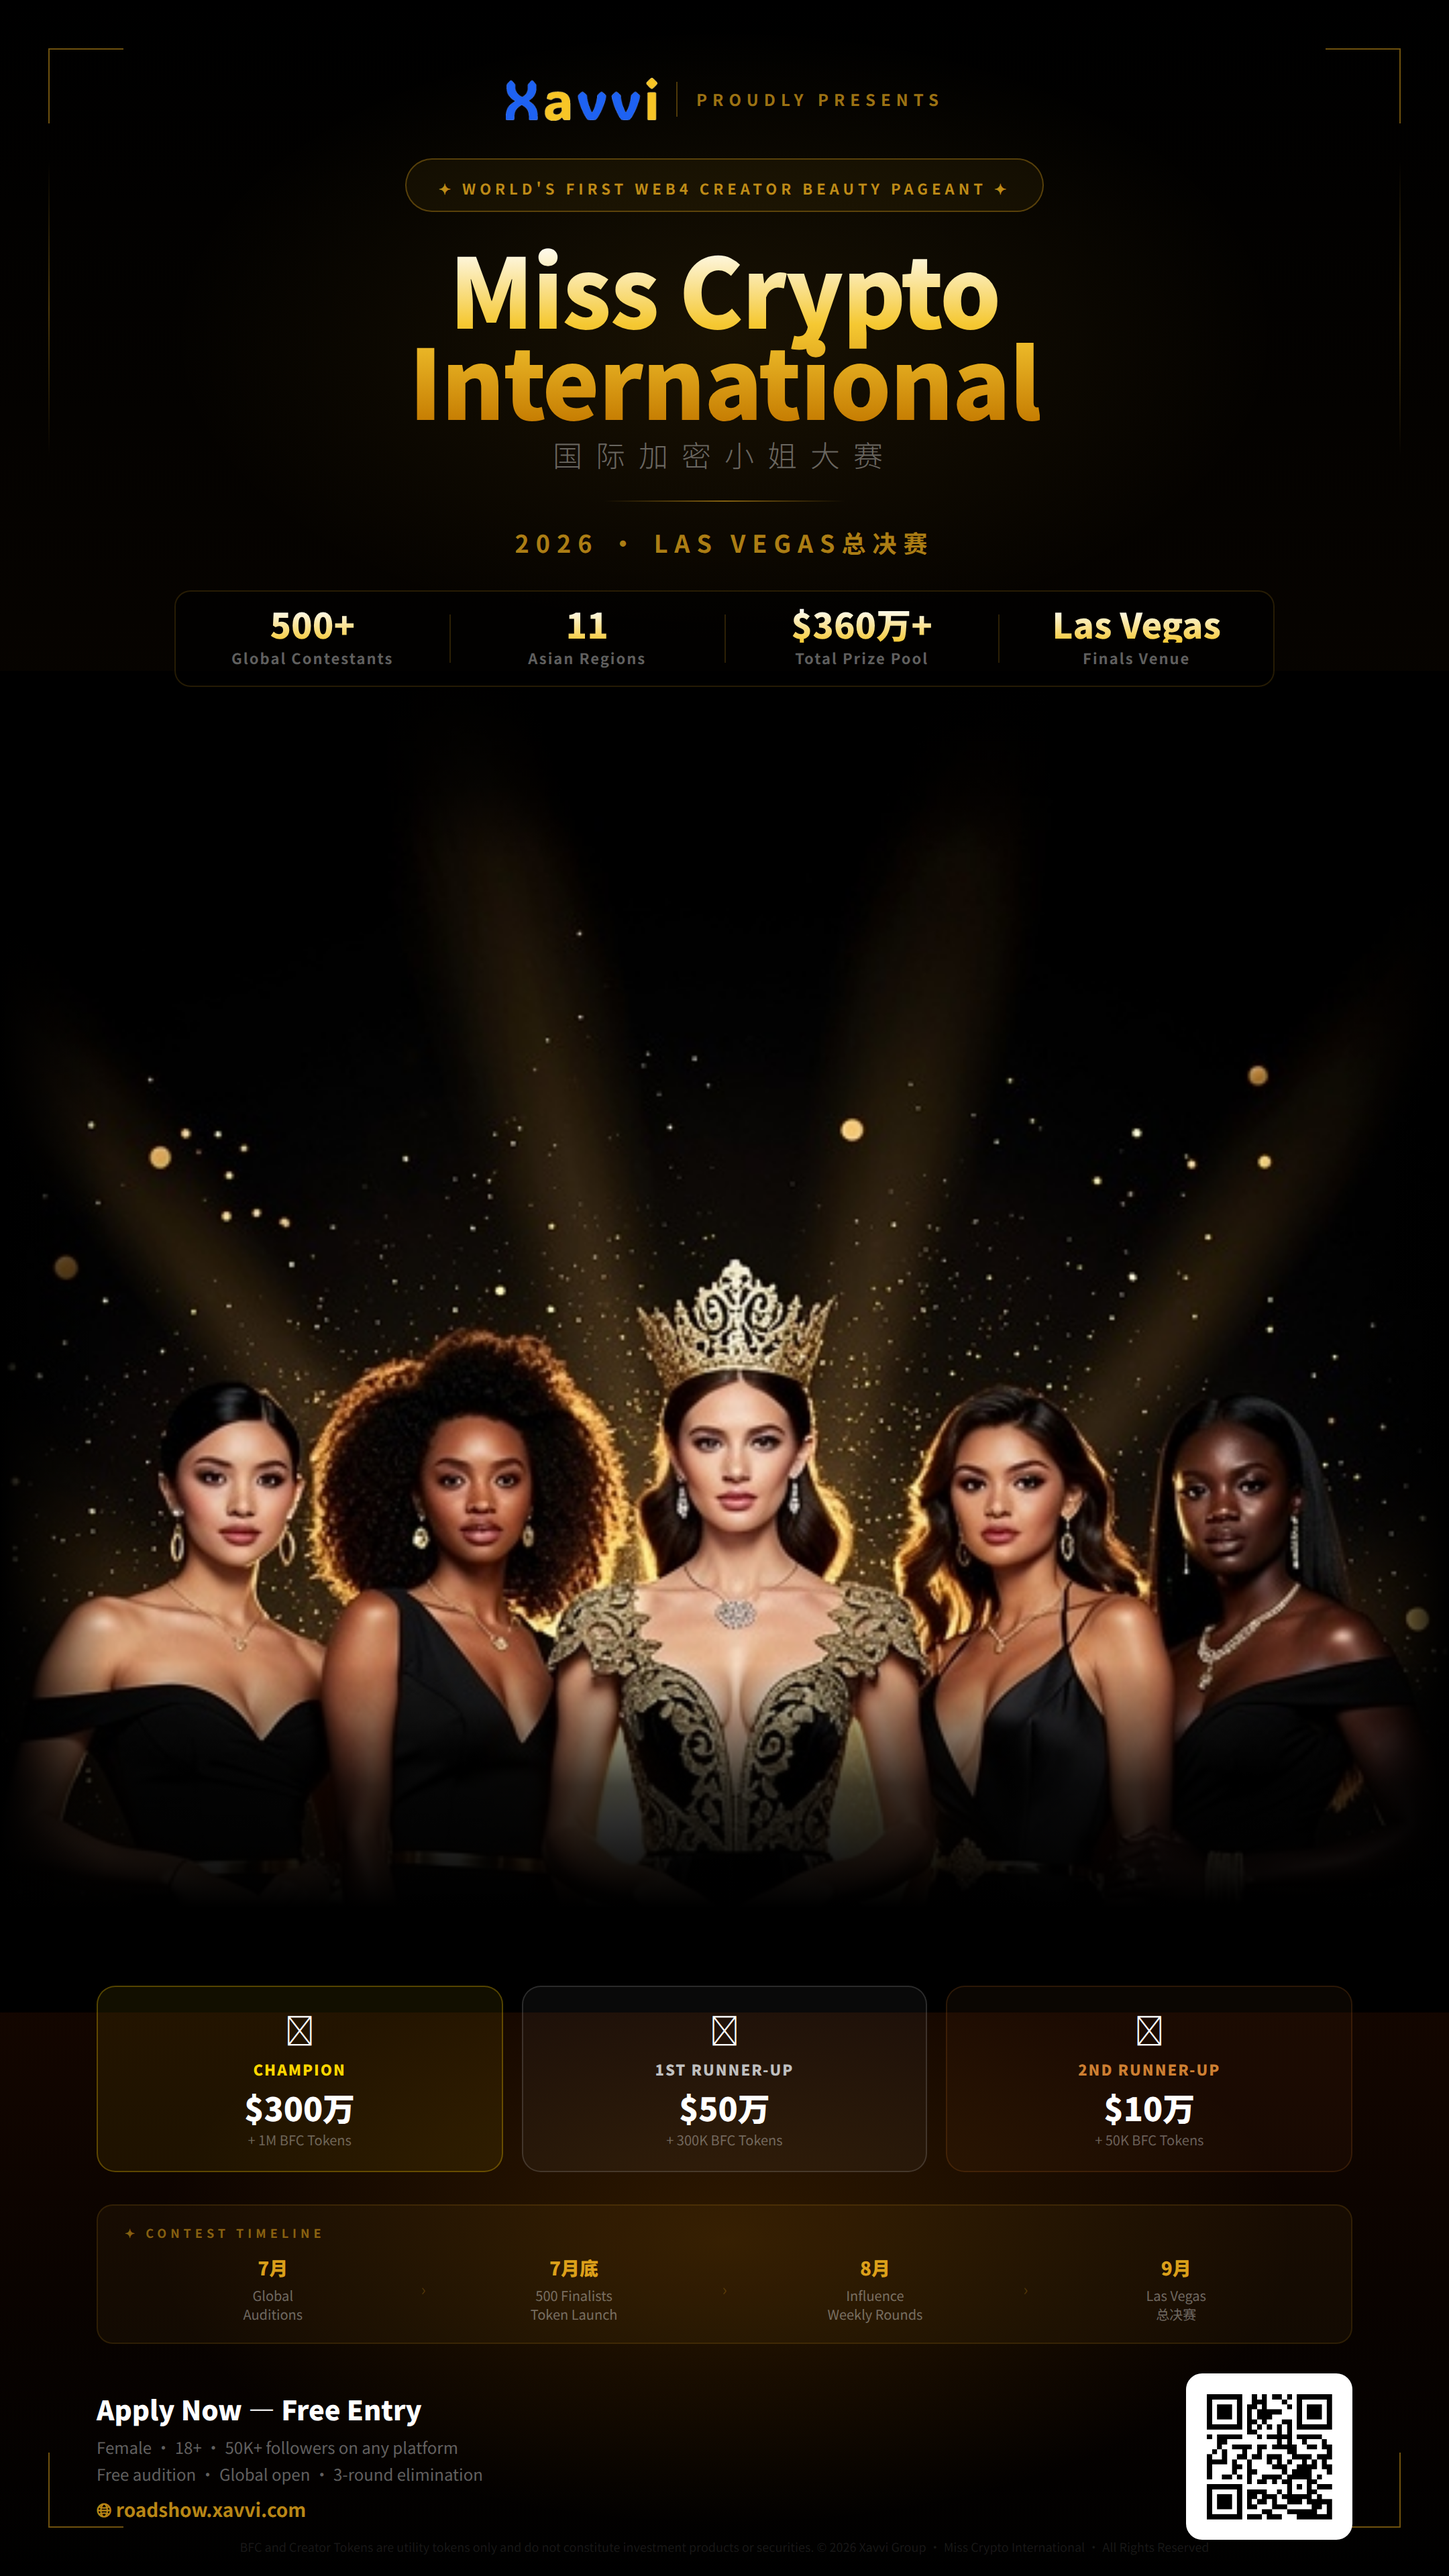
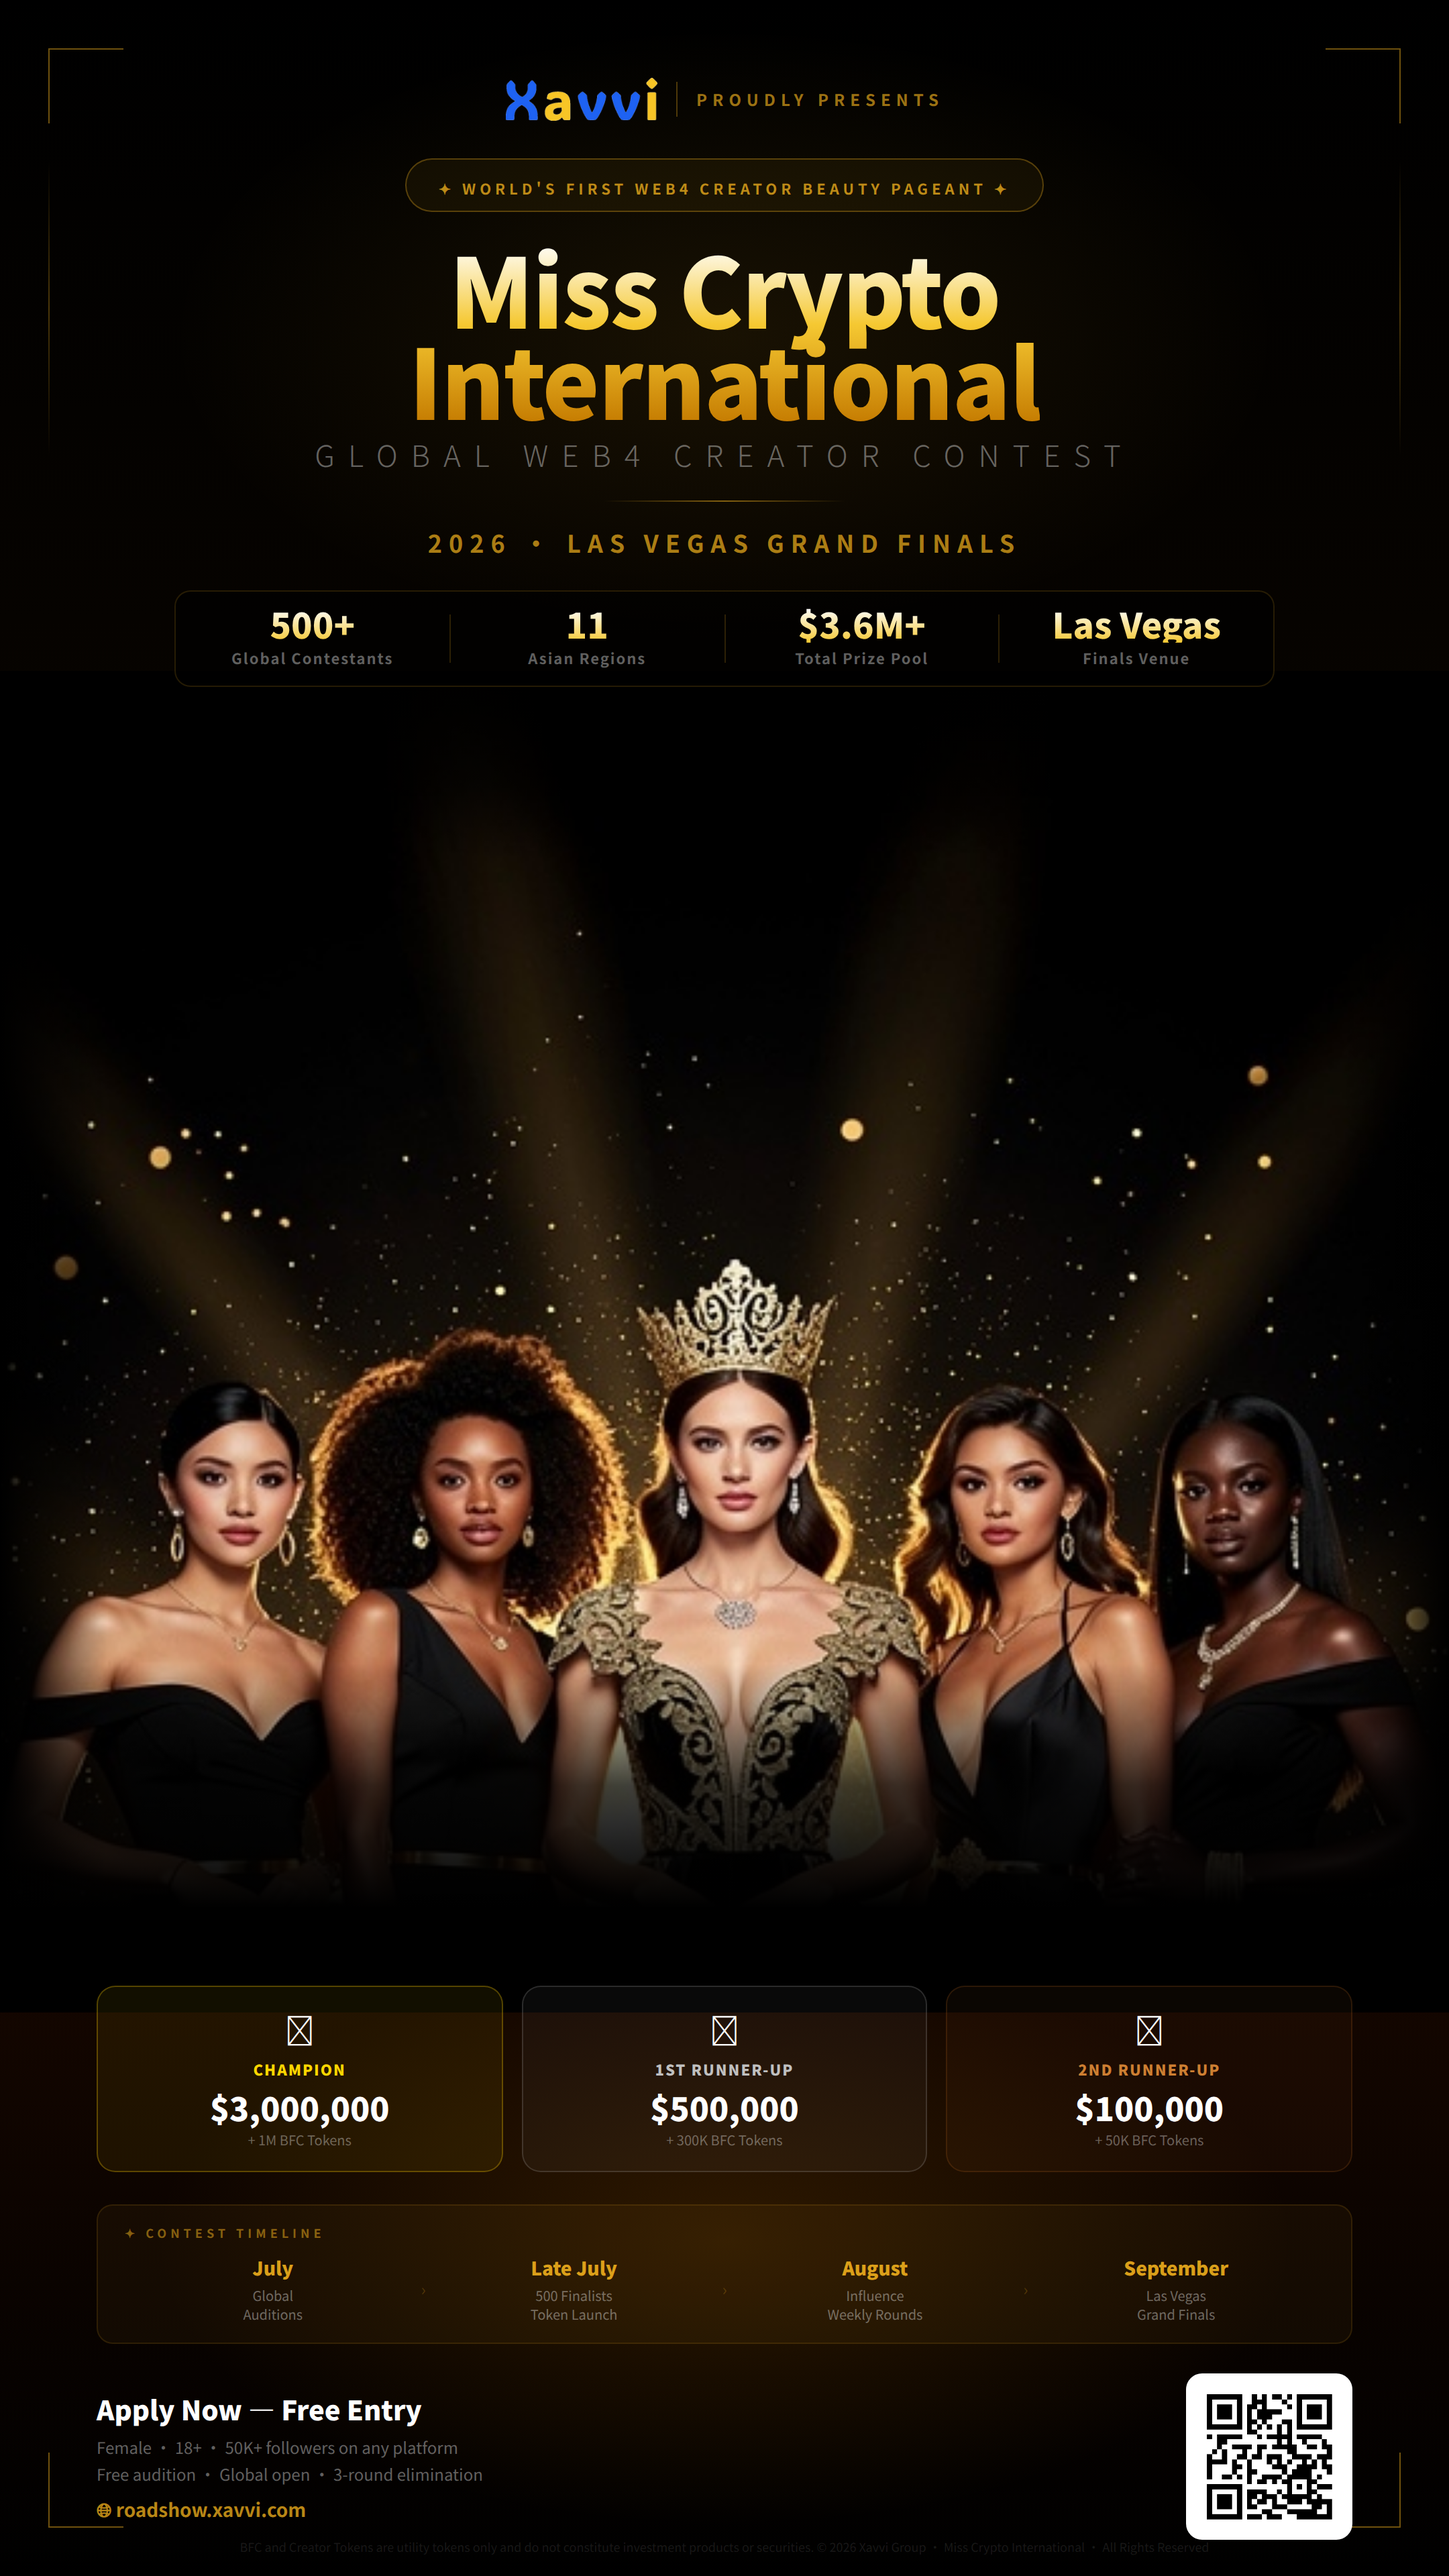
fix: EN poster — 0 Chinese remaining, all amounts/timeline/labels in English

diff --git a/miss-crypto-poster-en.html b/miss-crypto-poster-en.html
@@ -6,12 +6,12 @@
 *{margin:0;padding:0;box-sizing:border-box;}
 body{width:1080px;height:1920px;background:#000;font-family:'PingFang SC','Noto Sans SC','Helvetica Neue',Arial,sans-serif;color:#fff;overflow:hidden;position:relative;}
 
-/* ── 背景 ── */
+/* Background */
 .bg{position:absolute;inset:0;background:linear-gradient(180deg,#000 0%,#0a0500 40%,#1a0800 70%,#000 100%);}
 .glow-top{position:absolute;top:0;left:50%;transform:translateX(-50%);width:900px;height:500px;background:radial-gradient(ellipse,rgba(245,180,30,0.09),transparent 65%);}
 .glow-bottom{position:absolute;bottom:0;left:50%;transform:translateX(-50%);width:1000px;height:500px;background:radial-gradient(ellipse,rgba(200,120,0,0.18),transparent 60%);}
 
-/* ── 角饰 ── */
+/* Corner ornaments */
 .corner{position:absolute;width:56px;height:56px;}
 .corner-tl{top:36px;left:36px;border-top:1.5px solid rgba(245,180,30,0.45);border-left:1.5px solid rgba(245,180,30,0.45);}
 .corner-tr{top:36px;right:36px;border-top:1.5px solid rgba(245,180,30,0.45);border-right:1.5px solid rgba(245,180,30,0.45);}
@@ -20,7 +20,7 @@ body{width:1080px;height:1920px;background:#000;font-family:'PingFang SC','Noto 
 .side-line-l{position:absolute;left:36px;top:120px;height:220px;width:1px;background:linear-gradient(to bottom,transparent,rgba(245,180,30,0.3),transparent);}
 .side-line-r{position:absolute;right:36px;top:120px;height:220px;width:1px;background:linear-gradient(to bottom,transparent,rgba(245,180,30,0.3),transparent);}
 
-/* ── 顶部文字区（纯文字，无图片遮挡） ── */
+/* Top text zone */
 .top-zone{position:absolute;top:0;left:0;right:0;height:560px;display:flex;flex-direction:column;align-items:center;justify-content:flex-start;padding-top:58px;z-index:30;}
 
 .logo-row{display:flex;align-items:center;gap:14px;margin-bottom:28px;}
@@ -43,21 +43,21 @@ body{width:1080px;height:1920px;background:#000;font-family:'PingFang SC','Noto 
 .s-lbl{font-size:11px;font-weight:700;letter-spacing:1px;color:rgba(255,255,255,0.38);margin-top:4px;}
 .s-sep{width:1px;height:36px;background:rgba(245,180,30,0.18);}
 
-/* ── 图片区（中间大图，全幅） ── */
+/* Image zone */
 .queen-zone{position:absolute;top:500px;left:0;right:0;height:1000px;z-index:10;overflow:hidden;}
 .queen-zone img{width:100%;height:100%;object-fit:cover;object-position:center top;}
-/* 顶部渐变：与顶部文字区完美融合 */
+/* Fade top */
 .q-fade-top{position:absolute;top:0;left:0;right:0;height:140px;background:linear-gradient(to bottom,#000 0%,rgba(0,0,0,0.6) 60%,transparent 100%);}
-/* 底部渐变：与底部文字区完美融合 */
+/* Fade bottom */
 .q-fade-bottom{position:absolute;bottom:0;left:0;right:0;height:260px;background:linear-gradient(to top,#000 30%,rgba(0,0,0,0.75) 65%,transparent 100%);}
-/* 两侧渐变 */
+/* Fade sides */
 .q-fade-left{position:absolute;top:0;bottom:0;left:0;width:80px;background:linear-gradient(to right,#000,transparent);}
 .q-fade-right{position:absolute;top:0;bottom:0;right:0;width:80px;background:linear-gradient(to left,#000,transparent);}
 
-/* ── 底部文字区（纯文字，无图片遮挡） ── */
+/* Bottom text zone */
 .bottom-zone{position:absolute;bottom:0;left:0;right:0;height:440px;z-index:30;padding:0 72px 52px;}
 
-/* 奖项 */
+/* Prizes */
 .prize-row{display:flex;gap:14px;margin-bottom:24px;}
 .prize-card{flex:1;border-radius:14px;padding:16px 14px;text-align:center;}
 .pc-gold{background:rgba(255,210,0,0.07);border:1px solid rgba(255,210,0,0.28);}
@@ -69,7 +69,7 @@ body{width:1080px;height:1920px;background:#000;font-family:'PingFang SC','Noto 
 .p-cash{font-size:24px;font-weight:900;color:#fff;line-height:1;}
 .p-token{font-size:10px;color:rgba(255,255,255,0.35);margin-top:4px;}
 
-/* 时间线 */
+/* Timeline */
 .timeline-bar{background:rgba(245,180,30,0.05);border:1px solid rgba(245,180,30,0.12);border-radius:12px;padding:14px 20px;margin-bottom:22px;}
 .tl-label{font-size:9px;font-weight:700;letter-spacing:3px;color:rgba(245,180,30,0.5);margin-bottom:10px;text-transform:uppercase;}
 .tl-row{display:flex;justify-content:space-between;align-items:center;}
@@ -78,7 +78,7 @@ body{width:1080px;height:1920px;background:#000;font-family:'PingFang SC','Noto 
 .tl-event{font-size:10px;color:rgba(255,255,255,0.38);margin-top:3px;line-height:1.4;}
 .tl-arrow{font-size:12px;color:rgba(245,180,30,0.22);}
 
-/* CTA行 */
+/* CTA */
 .cta-row{display:flex;align-items:center;justify-content:space-between;gap:20px;}
 .cta-text{}
 .cta-main{font-size:20px;font-weight:900;margin-bottom:5px;}
@@ -87,7 +87,7 @@ body{width:1080px;height:1920px;background:#000;font-family:'PingFang SC','Noto 
 .qr-box{background:#fff;border-radius:12px;padding:8px;flex-shrink:0;}
 .qr-box img{width:108px;height:108px;display:block;}
 
-/* 免责声明 */
+/* Disclaimer */
 .disclaimer{position:absolute;bottom:14px;left:72px;right:72px;text-align:center;font-size:9px;color:rgba(255,255,255,0.1);line-height:1.6;z-index:30;}
 </style>
 </head>
@@ -103,7 +103,7 @@ body{width:1080px;height:1920px;background:#000;font-family:'PingFang SC','Noto 
 <div class="side-line-l"></div>
 <div class="side-line-r"></div>
 
-<!-- ★ 顶部文字区 ★ -->
+<!-- Top zone -->
 <div class="top-zone">
   <div class="logo-row">
     <img src="logo.png" alt="Xavvi"/>
@@ -112,21 +112,21 @@ body{width:1080px;height:1920px;background:#000;font-family:'PingFang SC','Noto 
   </div>
   <div class="badge"><span>✦ World's First Web4 Creator Beauty Pageant ✦</span></div>
   <div class="main-title" style="font-size:72px;letter-spacing:-1px;">Miss Crypto<br/>International</div>
-  <div class="main-en">国际加密小姐大赛</div>
+  <div class="main-en">Global Web4 Creator Contest</div>
   <div class="divider-line"></div>
-  <div class="sub-tagline">2026 · Las Vegas总决赛</div>
+  <div class="sub-tagline">2026 · Las Vegas Grand Finals</div>
   <div class="stats-strip">
     <div class="s-item"><div class="s-num">500+</div><div class="s-lbl">Global Contestants</div></div>
     <div class="s-sep"></div>
     <div class="s-item"><div class="s-num">11</div><div class="s-lbl">Asian Regions</div></div>
     <div class="s-sep"></div>
-    <div class="s-item"><div class="s-num">$360万+</div><div class="s-lbl">Total Prize Pool</div></div>
+    <div class="s-item"><div class="s-num">$3.6M+</div><div class="s-lbl">Total Prize Pool</div></div>
     <div class="s-sep"></div>
     <div class="s-item"><div class="s-num">Las Vegas</div><div class="s-lbl">Finals Venue</div></div>
   </div>
 </div>
 
-<!-- ★ 图片区（脸部完全不被遮挡） ★ -->
+<!-- Image zone -->
 <div class="queen-zone">
   <img src="miss-crypto-queen2.png" alt="Miss Crypto Queens"/>
   <div class="q-fade-top"></div>
@@ -135,41 +135,41 @@ body{width:1080px;height:1920px;background:#000;font-family:'PingFang SC','Noto 
   <div class="q-fade-right"></div>
 </div>
 
-<!-- ★ 底部文字区 ★ -->
+<!-- Bottom zone -->
 <div class="bottom-zone">
-  <!-- 奖项 -->
+  <!-- Prizes -->
   <div class="prize-row">
     <div class="prize-card pc-gold">
       <div class="p-icon">👑</div>
       <div class="p-name n-gold">CHAMPION</div>
-      <div class="p-cash">$300万</div>
+      <div class="p-cash">$3,000,000</div>
       <div class="p-token">+ 1M BFC Tokens</div>
     </div>
     <div class="prize-card pc-silver">
       <div class="p-icon">🥈</div>
       <div class="p-name n-silver">1ST RUNNER-UP</div>
-      <div class="p-cash">$50万</div>
+      <div class="p-cash">$500,000</div>
       <div class="p-token">+ 300K BFC Tokens</div>
     </div>
     <div class="prize-card pc-bronze">
       <div class="p-icon">🥉</div>
       <div class="p-name n-bronze">2ND RUNNER-UP</div>
-      <div class="p-cash">$10万</div>
+      <div class="p-cash">$100,000</div>
       <div class="p-token">+ 50K BFC Tokens</div>
     </div>
   </div>
 
-  <!-- 时间线 -->
+  <!-- Timeline -->
   <div class="timeline-bar">
     <div class="tl-label">✦ Contest Timeline</div>
     <div class="tl-row">
-      <div class="tl-step"><div class="tl-month">7月</div><div class="tl-event">Global<br/>Auditions</div></div>
+      <div class="tl-step"><div class="tl-month">July</div><div class="tl-event">Global<br/>Auditions</div></div>
       <div class="tl-arrow">›</div>
-      <div class="tl-step"><div class="tl-month">7月底</div><div class="tl-event">500 Finalists<br/>Token Launch</div></div>
+      <div class="tl-step"><div class="tl-month">Late July</div><div class="tl-event">500 Finalists<br/>Token Launch</div></div>
       <div class="tl-arrow">›</div>
-      <div class="tl-step"><div class="tl-month">8月</div><div class="tl-event">Influence<br/>Weekly Rounds</div></div>
+      <div class="tl-step"><div class="tl-month">August</div><div class="tl-event">Influence<br/>Weekly Rounds</div></div>
       <div class="tl-arrow">›</div>
-      <div class="tl-step"><div class="tl-month">9月</div><div class="tl-event">Las Vegas<br/>总决赛</div></div>
+      <div class="tl-step"><div class="tl-month">September</div><div class="tl-event">Las Vegas<br/>Grand Finals</div></div>
     </div>
   </div>
 
@@ -181,7 +181,7 @@ body{width:1080px;height:1920px;background:#000;font-family:'PingFang SC','Noto 
       <div class="cta-url">🌐 roadshow.xavvi.com</div>
     </div>
     <div class="qr-box">
-      <img src="qrcode.png" alt="扫码报名"/>
+      <img src="qrcode.png" alt="Scan to Register"/>
     </div>
   </div>
 </div>
